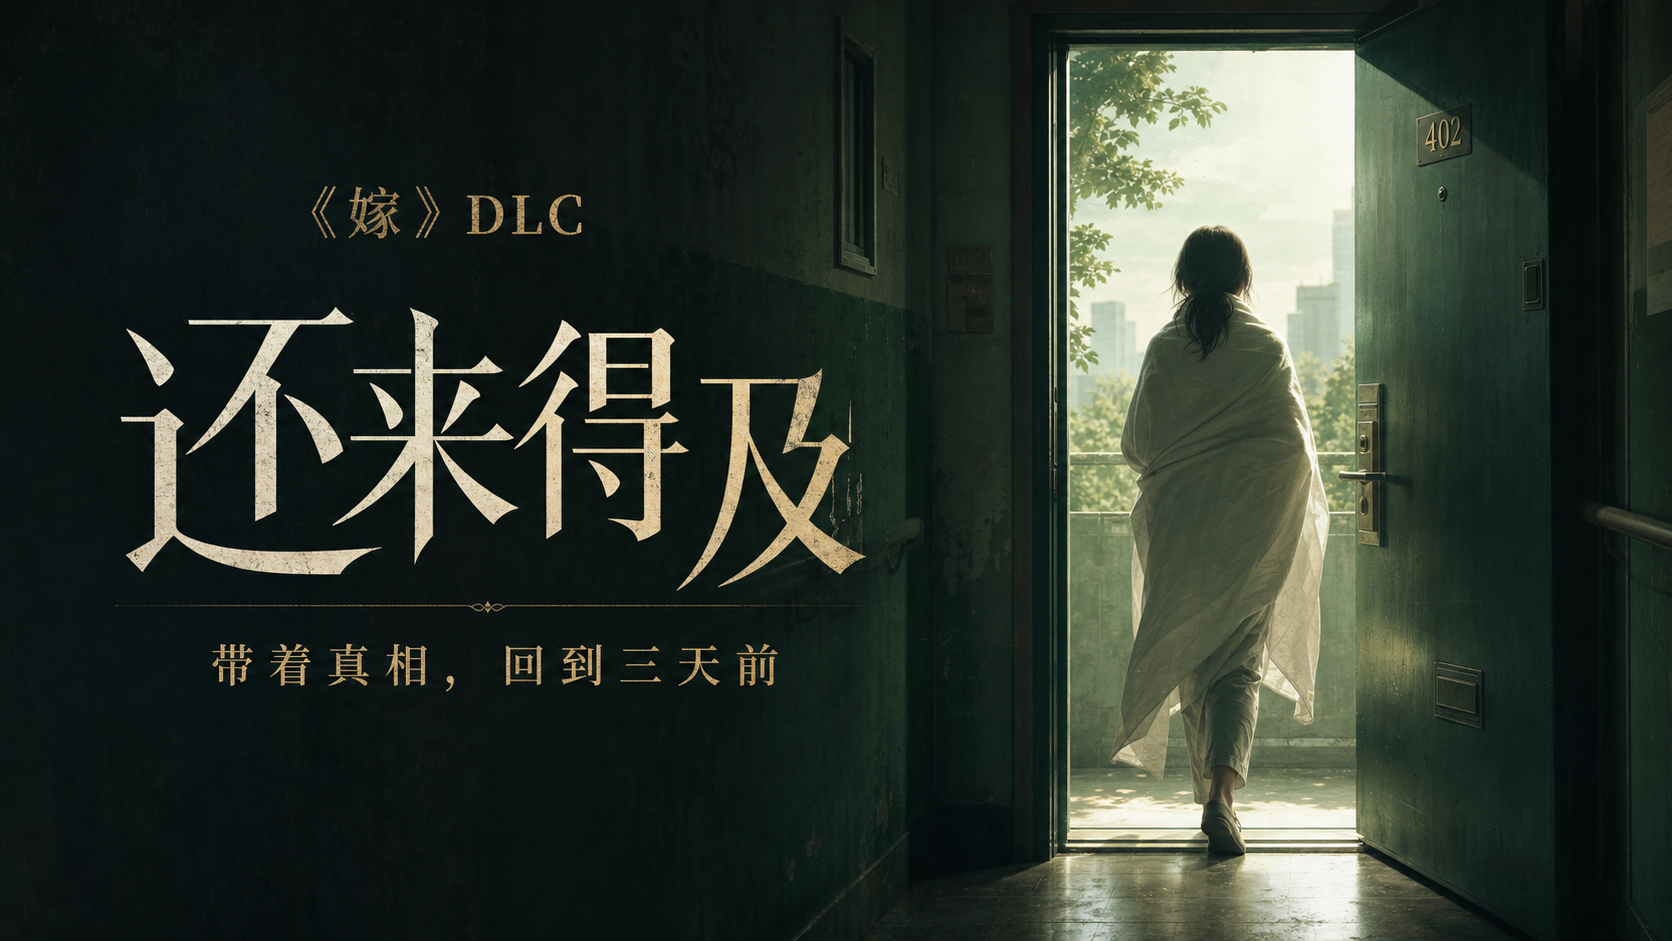
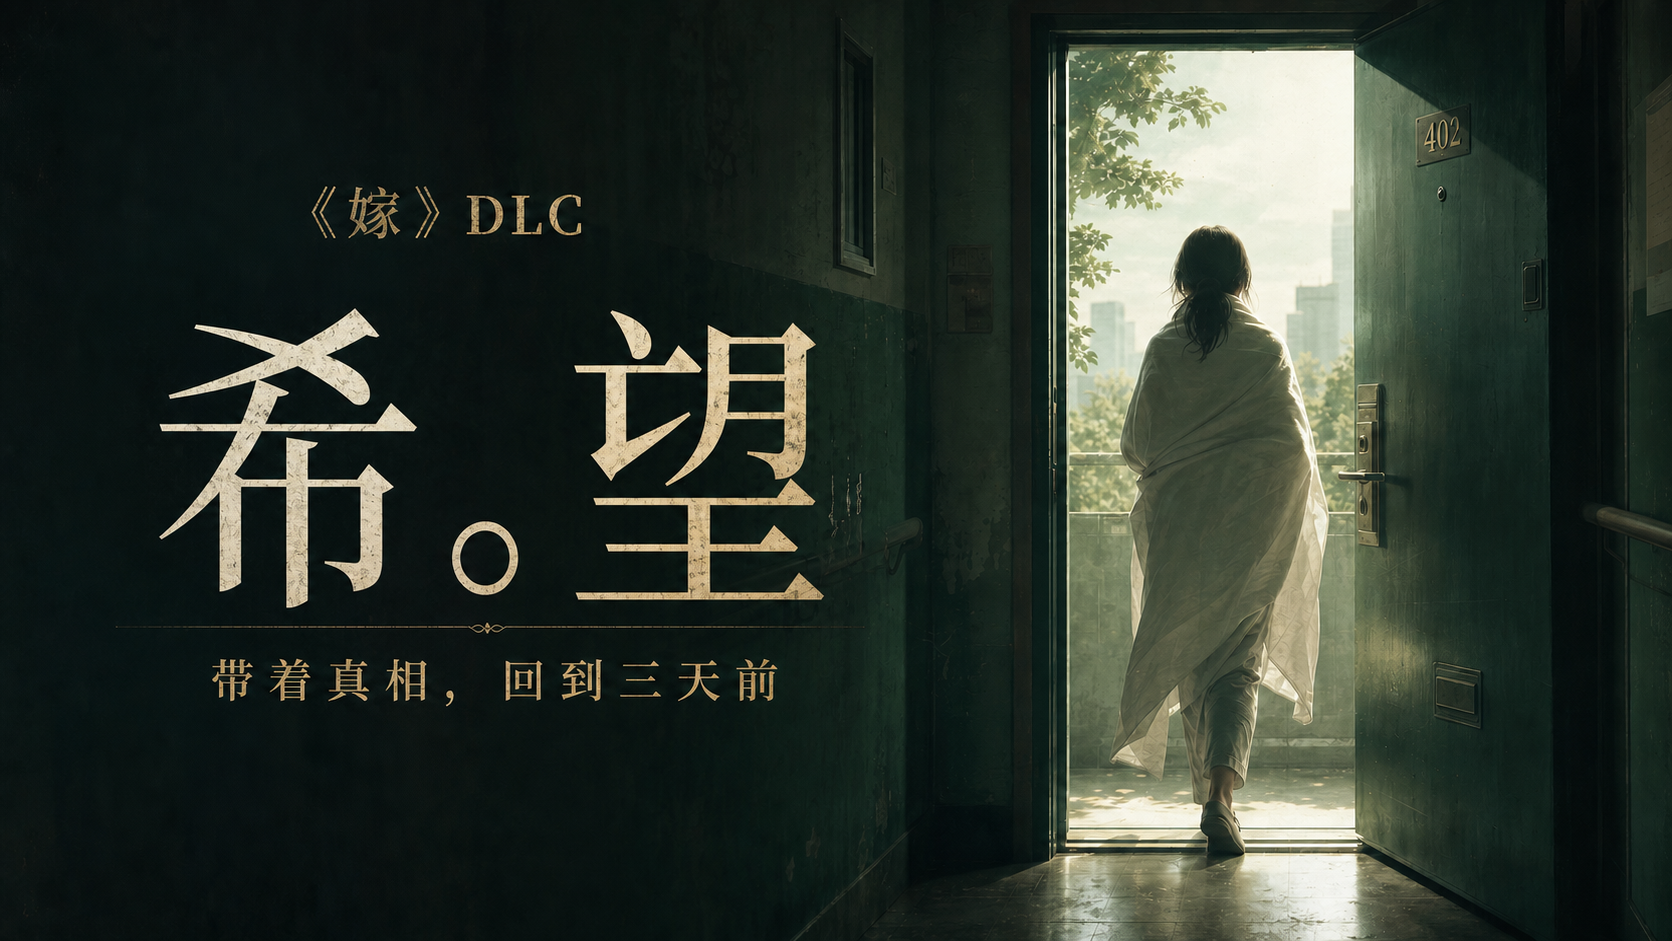
fix: rename DLC to 希。望

diff --git a/app/dlc/rescue/page.tsx b/app/dlc/rescue/page.tsx
@@ -181,14 +181,14 @@ export default function RescueDlcPage(){
     <div className="rescue-noise" aria-hidden="true"/>
     <header className="rescue-topbar">
       <a href="/" aria-label="返回《嫁》主选单">嫁</a>
-      <div><span>DLC · 还来得及</span><small>2025.11.26 — 2026.03.21</small></div>
+      <div><span>DLC · 希。望</span><small>2025.11.26 — 2026.03.21</small></div>
       <b>{stage==="ending"?"SAVED":`${String(Math.max(0,stages.indexOf(stage))).padStart(2,"0")} / 04`}</b>
     </header>
 
     {stage==="briefing"&&<section className="rescue-briefing">
       <div className="rescue-briefing-copy">
         <small>DOWNLOADABLE STORY · STANDALONE ROUTE</small>
-        <h1>还来得及</h1>
+        <h1>希。望</h1>
         <p>你已经知道求救留言会在哪里出现，知道门牌、IP、外锁和那通迟到了三天的报警。</p>
         <blockquote>这一次，不去挽回一具遗体。<br/>这一次，让顾盼自己走出那扇门。</blockquote>
         <button type="button" onClick={begin}>带着真相，回到三天前　→</button>

diff --git a/app/dlc/rescue/layout.tsx b/app/dlc/rescue/layout.tsx
@@ -7,7 +7,7 @@ export async function generateMetadata():Promise<Metadata>{
   const host=requestHeaders.get("x-forwarded-host")??requestHeaders.get("host")??"localhost";
   const protocol=requestHeaders.get("x-forwarded-proto")??(host.startsWith("localhost")?"http":"https");
   const origin=`${protocol}://${host}`;
-  const title="还来得及｜《嫁》DLC";
+  const title="希。望｜《嫁》DLC";
   const description="带着已经查明的真相回到三天前。这一次，让顾盼亲自走出那扇门。";
   const imageUrl=new URL("/dlc/rescue-social.png",origin).toString();
 
@@ -15,7 +15,7 @@ export async function generateMetadata():Promise<Metadata>{
     title,
     description,
     metadataBase:new URL(origin),
-    openGraph:{title,description,type:"website",images:[{url:imageUrl,width:1672,height:941,alt:"《嫁》DLC《还来得及》"}]},
+    openGraph:{title,description,type:"website",images:[{url:imageUrl,width:1672,height:941,alt:"《嫁》DLC《希。望》"}]},
     twitter:{card:"summary_large_image",title,description,images:[imageUrl]},
   };
 }
